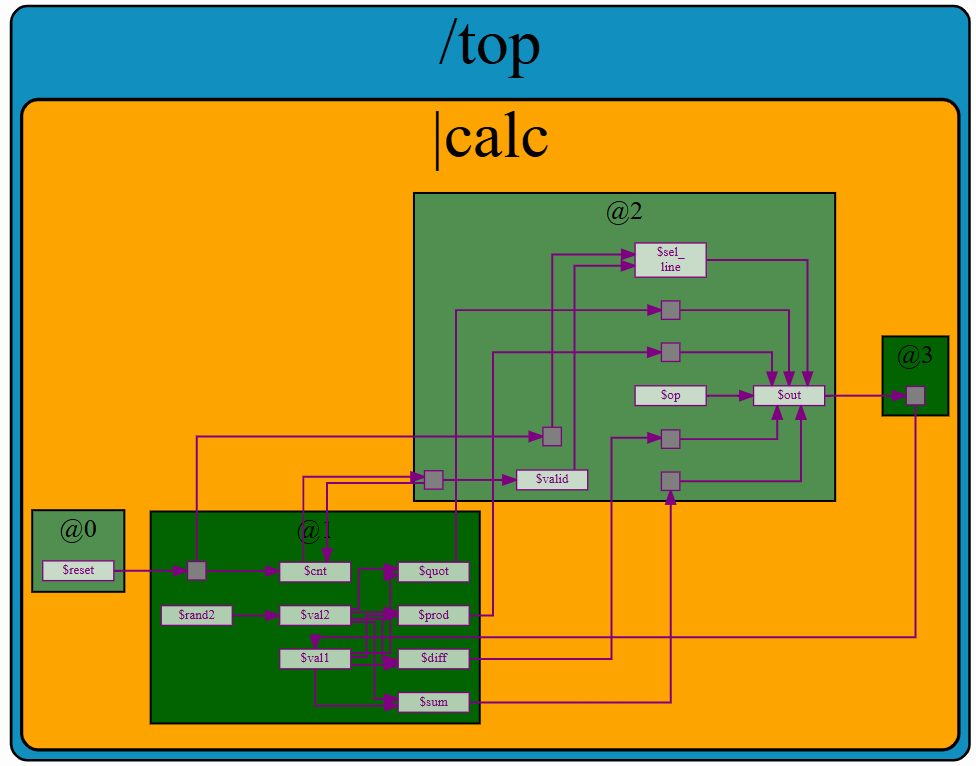
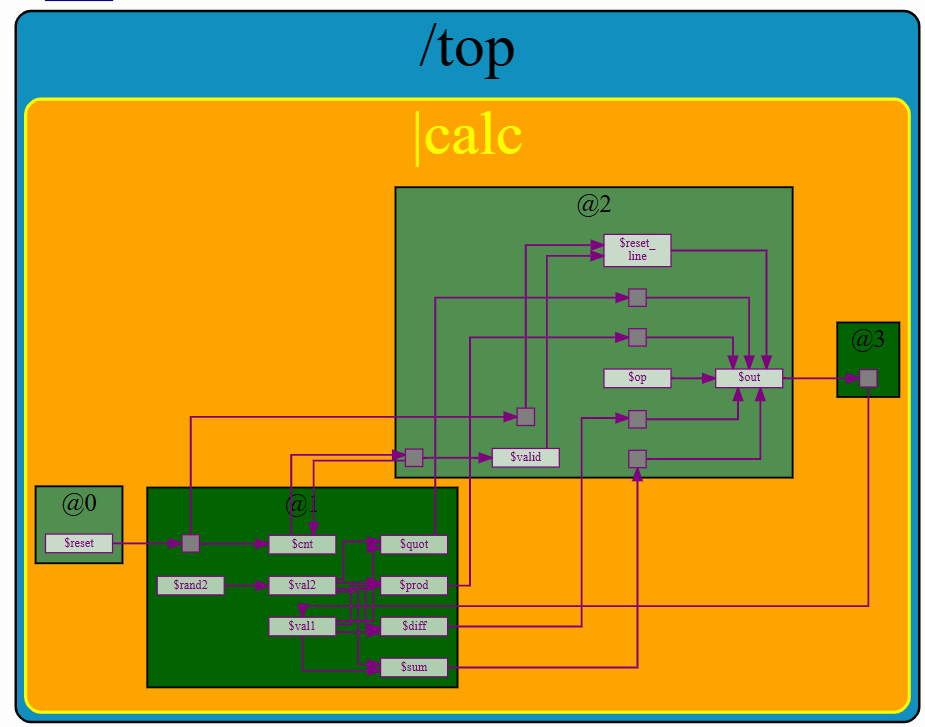
patch 3

Changed region(s): [[0.0, 0.0, 0.9989, 0.9986]]

diff --git a/readme.md b/readme.md
@@ -162,7 +162,7 @@ Code:
 ### 2-Cycle Counter
 
 ![Structure](images/image-21.png)
-![Block diagram](images/image-22.png)
+![BlockDiagram](images/image-22.png)
 ![Waveform](images/image-23.png)
 
 MakerChip [Link](https://myth.makerchip.com/sandbox/0zpfRhoN2/0zmhMv6#)
@@ -187,8 +187,8 @@ Code:
       
       @2
          $valid = $cnt;
-         $sel_line = $reset || ~$valid;
-         $out[31:0] = $sel_line ? 32'b0 : !$op[1] ? !$op[0] ? $sum[31:0] : $diff[31:0] : !$op[0] ? $prod[31:0] : $quot[31:0] ;
+         $reset_line = $reset || ~$valid;
+         $out[31:0] = $reset_line ? 32'b0 : !$op[1] ? !$op[0] ? $sum[31:0] : $diff[31:0] : !$op[0] ? $prod[31:0] : $quot[31:0] ;
 
    
    // Assert these to end simulation (before Makerchip cycle limit).
